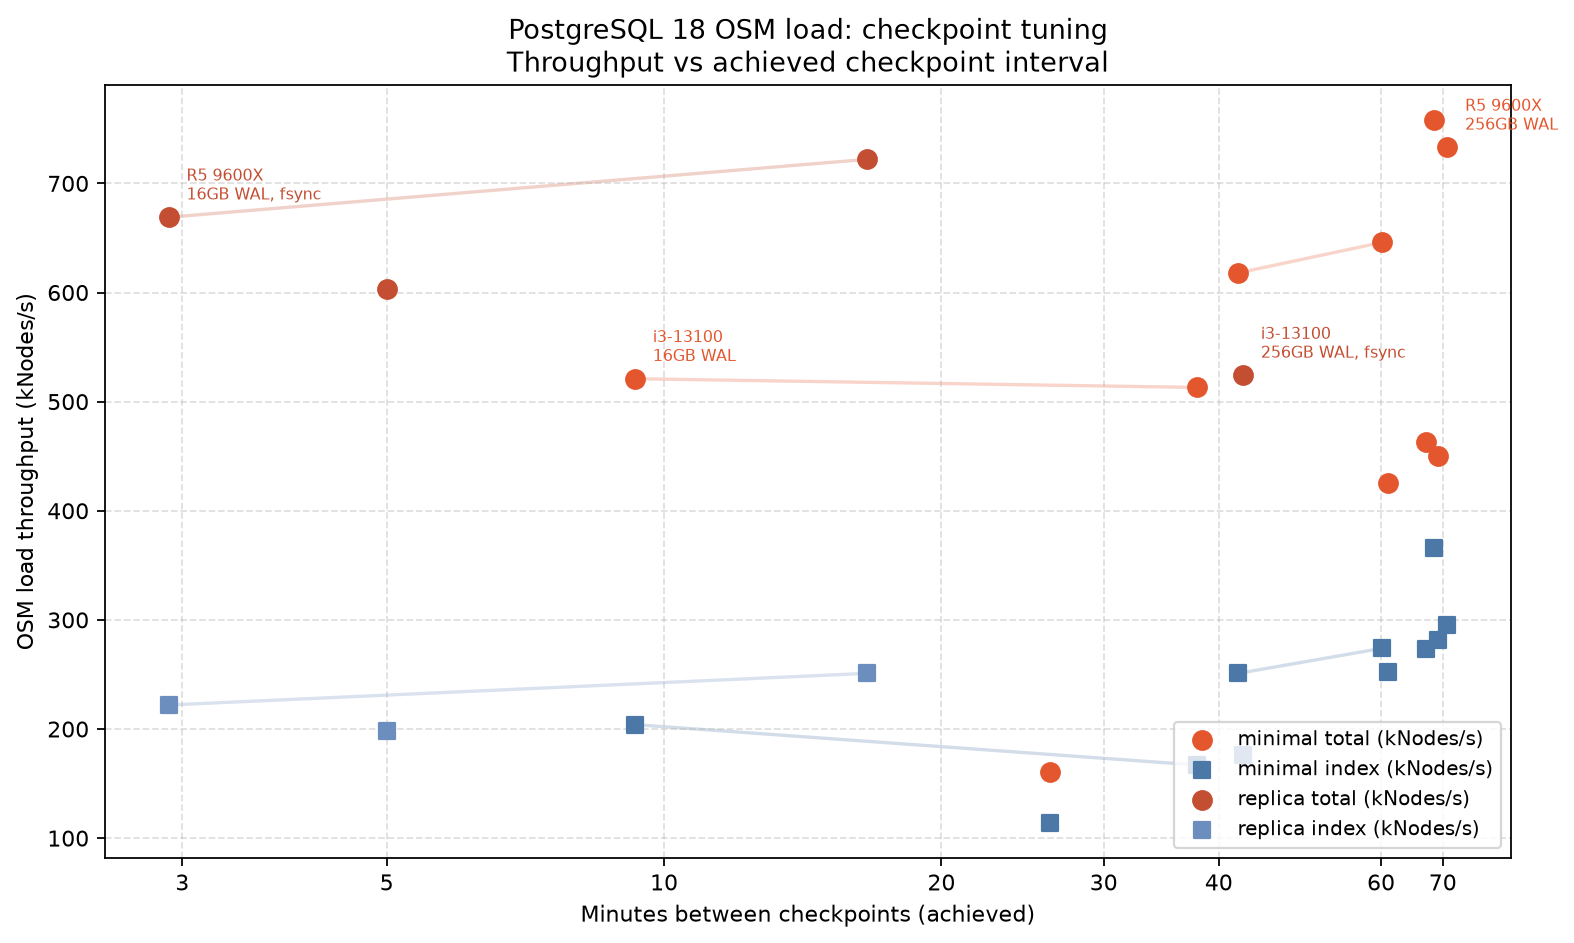
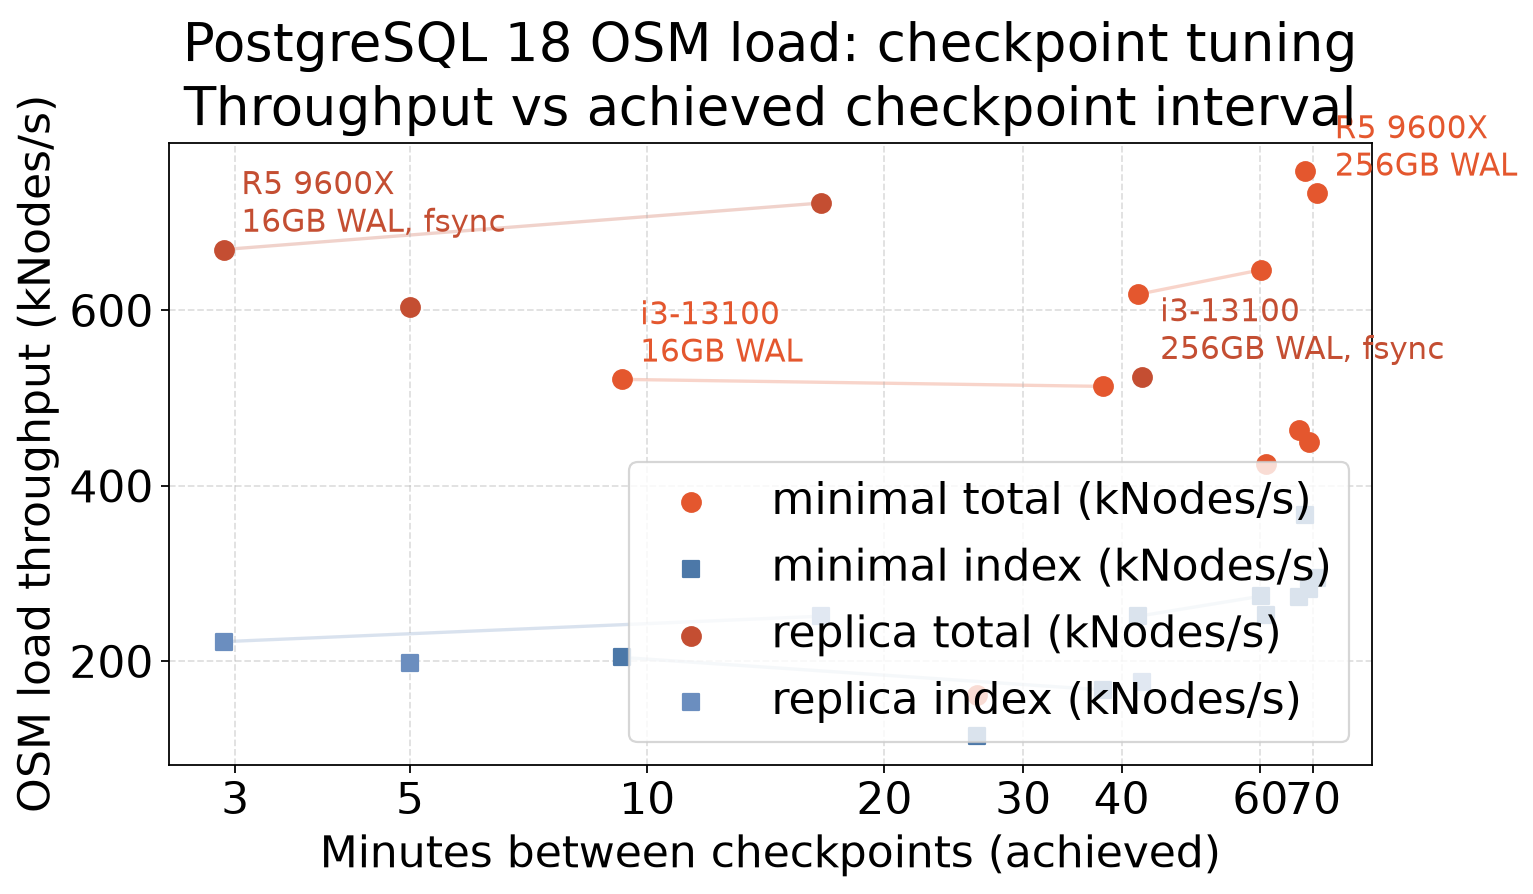
Double PG18 graph font sizes for mobile readability.
Add pg18_style.py with 2× typography across OSM snapshot charts, regenerate all PG18 PNGs, and drop i9-14900K from the OSM power table.

diff --git a/reports/osm-dirty-memory.py b/reports/osm-dirty-memory.py
@@ -21,6 +21,7 @@ from matplotlib.ticker import ScalarFormatter
 
 sys.path.insert(0, str(Path(__file__).resolve().parent))
 from snapshot_table import load_snapshot_table
+from pg18_style import ANNOTATION_FONTSIZE, use_pg18_style
 
 REPO_ROOT = Path(__file__).resolve().parents[1]
 DEFAULT_SNAPSHOT = REPO_ROOT / "docs/results-summary/pg18/osm-dirty-memory.md"
@@ -94,7 +95,7 @@ def plot_dirty_memory(df: pd.DataFrame, output: Path, show: bool = False) -> Non
         xy=(default["max_dirty"], default["nodes_kips"]),
         xytext=(12, -16),
         textcoords="offset points",
-        fontsize=9,
+        fontsize=ANNOTATION_FONTSIZE,
         color="#e4572e",
     )
     ax.annotate(
@@ -102,7 +103,7 @@ def plot_dirty_memory(df: pd.DataFrame, output: Path, show: bool = False) -> Non
         xy=(default["max_dirty"], default["index_kips"]),
         xytext=(12, 8),
         textcoords="offset points",
-        fontsize=9,
+        fontsize=ANNOTATION_FONTSIZE,
         color="#4c78a8",
     )
     ax.annotate(
@@ -110,7 +111,7 @@ def plot_dirty_memory(df: pd.DataFrame, output: Path, show: bool = False) -> Non
         xy=(smallest["max_dirty"], smallest["nodes_kips"]),
         xytext=(12, -16),
         textcoords="offset points",
-        fontsize=9,
+        fontsize=ANNOTATION_FONTSIZE,
         color="#e4572e",
         arrowprops={"arrowstyle": "->", "color": "#e4572e", "lw": 1},
     )
@@ -119,7 +120,7 @@ def plot_dirty_memory(df: pd.DataFrame, output: Path, show: bool = False) -> Non
         xy=(smallest["max_dirty"], smallest["index_kips"]),
         xytext=(12, 10),
         textcoords="offset points",
-        fontsize=9,
+        fontsize=ANNOTATION_FONTSIZE,
         color="#4c78a8",
         arrowprops={"arrowstyle": "->", "color": "#4c78a8", "lw": 1},
     )
@@ -150,6 +151,7 @@ def plot_dirty_memory(df: pd.DataFrame, output: Path, show: bool = False) -> Non
 
 
 def main() -> int:
+    use_pg18_style()
     args = parse_args()
     rows = load_snapshot_table(args.snapshot)
     if not rows:

diff --git a/reports/osm-network-speed.py b/reports/osm-network-speed.py
@@ -23,6 +23,7 @@ from matplotlib.ticker import ScalarFormatter
 
 sys.path.insert(0, str(Path(__file__).resolve().parent))
 from snapshot_table import conn_mbps, load_snapshot_table
+from pg18_style import ANNOTATION_FONTSIZE, use_pg18_style
 
 REPO_ROOT = Path(__file__).resolve().parents[1]
 DEFAULT_SNAPSHOT = REPO_ROOT / "docs/results-summary/pg18/osm-network.md"
@@ -86,7 +87,7 @@ def plot_connection_speed(df: pd.DataFrame, output: Path, show: bool = False) ->
         xy=(remote["conn_mbps"].max(), i5_host["nodes_kips"]),
         xytext=(8, -14),
         textcoords="offset points",
-        fontsize=9,
+        fontsize=ANNOTATION_FONTSIZE,
         color="#e4572e",
     )
     ax.annotate(
@@ -94,7 +95,7 @@ def plot_connection_speed(df: pd.DataFrame, output: Path, show: bool = False) ->
         xy=(remote["conn_mbps"].max(), i5_host["index_kips"]),
         xytext=(8, 6),
         textcoords="offset points",
-        fontsize=9,
+        fontsize=ANNOTATION_FONTSIZE,
         color="#4c78a8",
     )
     ax.annotate(
@@ -102,7 +103,7 @@ def plot_connection_speed(df: pd.DataFrame, output: Path, show: bool = False) ->
         xy=(10000, at_10g["nodes_kips"]),
         xytext=(-120, -18),
         textcoords="offset points",
-        fontsize=9,
+        fontsize=ANNOTATION_FONTSIZE,
         color="#e4572e",
         arrowprops={"arrowstyle": "->", "color": "#e4572e", "lw": 1},
     )
@@ -111,7 +112,7 @@ def plot_connection_speed(df: pd.DataFrame, output: Path, show: bool = False) ->
         xy=(10000, at_10g["index_kips"]),
         xytext=(-120, 12),
         textcoords="offset points",
-        fontsize=9,
+        fontsize=ANNOTATION_FONTSIZE,
         color="#4c78a8",
         arrowprops={"arrowstyle": "->", "color": "#4c78a8", "lw": 1},
     )
@@ -142,6 +143,7 @@ def plot_connection_speed(df: pd.DataFrame, output: Path, show: bool = False) ->
 
 
 def main() -> int:
+    use_pg18_style()
     args = parse_args()
     rows = load_snapshot_table(args.snapshot)
     if not rows:

diff --git a/reports/osm-power.py b/reports/osm-power.py
@@ -26,6 +26,7 @@ from matplotlib.ticker import ScalarFormatter
 
 sys.path.insert(0, str(Path(__file__).resolve().parent))
 from snapshot_table import load_snapshot_table
+from pg18_style import LEGEND_MARKER_SIZE, POINT_LABEL_FONTSIZE, use_pg18_style
 
 REPO_ROOT = Path(__file__).resolve().parents[1]
 DEFAULT_SNAPSHOT = REPO_ROOT / "docs/results-summary/pg18/osm-power.md"
@@ -36,7 +37,6 @@ DEFAULT_EFFICIENCY = REPO_ROOT / "docs/images/pg18-osm-power-efficiency.png"
 
 DEFAULT_POINT_COLOR = "#333333"
 INDEX_BAR_ALPHA = 0.45
-POINT_LABEL_FONTSIZE = 11
 
 
 def row_color(row: pd.Series) -> str:
@@ -126,8 +126,8 @@ def plot_throughput_vs_power(df: pd.DataFrame, output: Path, show: bool = False)
     ax.grid(True, linestyle="--", alpha=0.4)
     ax.legend(
         handles=[
-            Line2D([0], [0], marker="o", color="w", markerfacecolor="#666666", markersize=8, label="Total (kNodes/s)"),
-            Line2D([0], [0], marker="s", color="w", markerfacecolor="#666666", markersize=8, label="Index (kNodes/s)"),
+            Line2D([0], [0], marker="o", color="w", markerfacecolor="#666666", markersize=LEGEND_MARKER_SIZE, label="Total (kNodes/s)"),
+            Line2D([0], [0], marker="s", color="w", markerfacecolor="#666666", markersize=LEGEND_MARKER_SIZE, label="Index (kNodes/s)"),
         ],
         loc="upper left",
     )
@@ -225,6 +225,7 @@ def plot_efficiency(df: pd.DataFrame, output: Path, show: bool = False) -> None:
 
 
 def main() -> int:
+    use_pg18_style()
     args = parse_args()
     rows = load_snapshot_table(args.snapshot)
     if not rows:

diff --git a/reports/osm-checkpoint.py b/reports/osm-checkpoint.py
@@ -22,6 +22,7 @@ from matplotlib.ticker import FixedLocator, NullLocator, ScalarFormatter
 
 sys.path.insert(0, str(Path(__file__).resolve().parent))
 from snapshot_table import load_snapshot_table
+from pg18_style import ANNOTATION_FONTSIZE, SMALL_ANNOTATION_FONTSIZE, use_pg18_style
 
 REPO_ROOT = Path(__file__).resolve().parents[1]
 DEFAULT_SNAPSHOT = REPO_ROOT / "docs/results-summary/pg18/osm-checkpoint.md"
@@ -132,7 +133,7 @@ def plot_checkpoint(df: pd.DataFrame, output: Path, show: bool = False) -> None:
             xy=(row["chkp_mins"], row["nodes_kips"]),
             xytext=(8, 8),
             textcoords="offset points",
-            fontsize=7,
+            fontsize=SMALL_ANNOTATION_FONTSIZE,
             color=WAL_COLORS[row["wal_level"]],
         )
 
@@ -148,7 +149,7 @@ def plot_checkpoint(df: pd.DataFrame, output: Path, show: bool = False) -> None:
         "Throughput vs achieved checkpoint interval"
     )
     ax.grid(True, which="major", linestyle="--", alpha=0.4)
-    ax.legend(loc="lower right", fontsize=9)
+    ax.legend(loc="lower right")
     plain_axis(ax, x=True)
 
     fig.tight_layout()
@@ -161,6 +162,7 @@ def plot_checkpoint(df: pd.DataFrame, output: Path, show: bool = False) -> None:
 
 
 def main() -> int:
+    use_pg18_style()
     args = parse_args()
     rows = load_snapshot_table(args.snapshot)
     if not rows:

diff --git a/reports/osm-relation-power.py b/reports/osm-relation-power.py
@@ -22,6 +22,7 @@ from matplotlib.ticker import ScalarFormatter
 
 sys.path.insert(0, str(Path(__file__).resolve().parent))
 from snapshot_table import load_snapshot_table
+from pg18_style import BAR_LABEL_FONTSIZE, POINT_LABEL_FONTSIZE, use_pg18_style
 
 REPO_ROOT = Path(__file__).resolve().parents[1]
 DEFAULT_SNAPSHOT = REPO_ROOT / "docs/results-summary/pg18/osm-power.md"
@@ -90,7 +91,7 @@ def plot_relation_efficiency(df: pd.DataFrame, output: Path, show: bool = False)
             i,
             f"{int(row['rel']):,} rel · {int(row['avg_watts'])} W avg",
             va="center",
-            fontsize=8,
+            fontsize=BAR_LABEL_FONTSIZE,
             color="#333333",
         )
 
@@ -123,7 +124,7 @@ def plot_relation_scatter(df: pd.DataFrame, output: Path, show: bool = False) ->
             xy=(row["avg_watts"], row["rel"]),
             xytext=(6, 6),
             textcoords="offset points",
-            fontsize=11,
+            fontsize=POINT_LABEL_FONTSIZE,
             color=color,
         )
 
@@ -143,6 +144,7 @@ def plot_relation_scatter(df: pd.DataFrame, output: Path, show: bool = False) ->
 
 
 def main() -> int:
+    use_pg18_style()
     args = parse_args()
     rows = load_snapshot_table(args.snapshot, heading=RELATION_HEADING)
     if not rows:

diff --git a/reports/osm-leaderboard.py b/reports/osm-leaderboard.py
@@ -22,6 +22,7 @@ from matplotlib.ticker import ScalarFormatter
 
 sys.path.insert(0, str(Path(__file__).resolve().parent))
 from snapshot_table import load_snapshot_table
+from pg18_style import Y_LABEL_FONTSIZE, use_pg18_style
 
 REPO_ROOT = Path(__file__).resolve().parents[1]
 DEFAULT_SNAPSHOT = REPO_ROOT / "docs/results-summary/pg18/osm-leaderboard.md"
@@ -99,7 +100,7 @@ def plot_leaderboard(df: pd.DataFrame, output: Path, show: bool = False) -> None
     )
 
     ax.set_yticks(list(y))
-    ax.set_yticklabels(df["label"], fontsize=9)
+    ax.set_yticklabels(df["label"], fontsize=Y_LABEL_FONTSIZE)
     ax.set_xlabel("OSM load throughput (kNodes/s)")
     ax.set_title(
         "PostgreSQL OSM load leaderboard\n"
@@ -119,6 +120,7 @@ def plot_leaderboard(df: pd.DataFrame, output: Path, show: bool = False) -> None
 
 
 def main() -> int:
+    use_pg18_style()
     args = parse_args()
     rows = load_snapshot_table(args.snapshot)
     if not rows:

diff --git a/reports/pg18_style.py b/reports/pg18_style.py
@@ -1,0 +1,27 @@
+"""Shared Matplotlib typography for PG18 snapshot graphs (2× default sizes)."""
+
+from __future__ import annotations
+
+import matplotlib.pyplot as plt
+
+# Explicit overrides for annotations beyond rcParams defaults.
+POINT_LABEL_FONTSIZE = 22
+BAR_LABEL_FONTSIZE = 16
+ANNOTATION_FONTSIZE = 18
+SMALL_ANNOTATION_FONTSIZE = 14
+Y_LABEL_FONTSIZE = 18
+LEGEND_MARKER_SIZE = 16
+
+
+def use_pg18_style() -> None:
+    """Apply doubled font sizes for titles, axes, ticks, legends, and base text."""
+    plt.rcParams.update(
+        {
+            "font.size": 20,
+            "axes.titlesize": 24,
+            "axes.labelsize": 20,
+            "xtick.labelsize": 20,
+            "ytick.labelsize": 20,
+            "legend.fontsize": 20,
+        }
+    )

diff --git a/docs/results-summary/pg18/osm-power.md b/docs/results-summary/pg18/osm-power.md
@@ -32,13 +32,12 @@ _Snapshot of the [Streamlit explorer — down between releases](https://pgbent.s
 _Captured by `explorer/snapshot-streamlit.py` from the live site._
 
 
-_Query returned 8 rows._
+_Query returned 7 rows._
 
 | cpu | mem_gb | nodes_kips | index_kips | pwr_est | max_pkg | avg_pkg | fsync | wal | avg_write | max_write | avg_read | max_read | cpu_c |
 | --- | --- | --- | --- | --- | --- | --- | --- | --- | --- | --- | --- | --- | --- |
 | R9 9950X | 124 | 758.0 | 366.0 |  | 167.0 | 75.0 | off | 21.2 | 83.0 | 7282.0 | 66.0 | 5763.0 | #ED1C24 |
 | R5 9600X | 124 | 733.0 | 295.0 |  | 89.0 | 47.0 | off | 20.2 | 81.0 | 5566.0 | 64.0 | 6642.0 | #ED1C24 |
-| i9-14900K | 125 | 685.0 | 256.0 | est | 180.0 |  | off | 20.5 | 83.0 | 7763.0 | 68.0 | 5603.0 | #0071C5 |
 | i5-13600K | 188 | 646.0 | 274.0 |  | 129.0 | 47.0 | off | 17.8 | 52.0 | 8230.0 | 41.0 | 5848.0 | #0071C5 |
 | i3-13100 | 125 | 536.0 | 193.0 | est | 75.0 |  | on | 43.0 | 67.0 | 4141.0 | 47.0 | 4329.0 | #0071C5 |
 | Apple M4 Max | 128 | 463.0 | 273.0 |  | 23.0 | 8.0 | off | 12.8 | 348.0 | 4763.0 | 348.0 | 4763.0 | #000000 |
